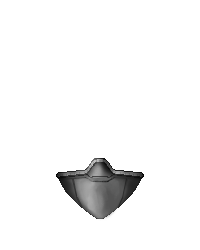
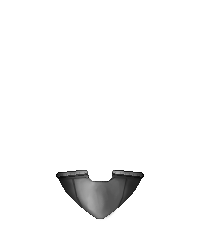
Muzzle nose options

Changed region(s): [[0.42, 0.616, 0.57, 0.728]]

diff --git a/BondageClub/Assets/Female3DCG/Female3DCG.js b/BondageClub/Assets/Female3DCG/Female3DCG.js
@@ -3560,8 +3560,10 @@ var AssetFemale3DCG = [
 				Effect: [ "BlockMouth"], Prerequisite: "GagFlat", Hide: ["Mouth", "ItemNoseNoseRing"], Extended: true,
 				Layer: [
 					{ Name: "Straps", HasType: false, AllowModuleTypes: ["h1"]},
+					{ Name: "Nose", HasType: false, AllowModuleTypes: ["n1"]},
 					{ Name: "Mask", HasType: false,},
-					{ Name: "Icon", HasType: true, AllowModuleTypes: ["s1", "s2"]},
+					{ Name: "IconLock", HasType: false, AllowModuleTypes: ["s1"]},
+					{ Name: "IconMute", CopyLayerColor: "IconLock", HasType: false, AllowModuleTypes: ["s2"]},
 				]
 			},
 			{
@@ -3825,8 +3827,10 @@ var AssetFemale3DCG = [
 				Effect: [ "BlockMouth"], Prerequisite: "GagFlat", Hide: ["Mouth", "ItemNoseNoseRing"], Block: ["ItemMouth"], Extended: true,
 				Layer: [
 					{ Name: "Straps", HasType: false, AllowModuleTypes: ["h1"]},
+					{ Name: "Nose", HasType: false, AllowModuleTypes: ["n1"]},
 					{ Name: "Mask", HasType: false,},
-					{ Name: "Icon", HasType: true, AllowModuleTypes: ["s1", "s2"]},
+					{ Name: "IconLock", HasType: false, AllowModuleTypes: ["s1"]},
+					{ Name: "IconMute", CopyLayerColor: "IconLock", HasType: false, AllowModuleTypes: ["s2"]},
 				]
 			},
 			{
@@ -4065,8 +4069,10 @@ var AssetFemale3DCG = [
 				Effect: [ "BlockMouth"], Prerequisite: "GagFlat", Hide: ["Mouth", "ItemNoseNoseRing"], Block: ["ItemMouth", "ItemMouth2"], Extended: true,
 				Layer: [
 					{ Name: "Straps", HasType: false, AllowModuleTypes: ["h1"]},
+					{ Name: "Nose", HasType: false, AllowModuleTypes: ["n1"]},
 					{ Name: "Mask", HasType: false,},
-					{ Name: "Icon", HasType: true, AllowModuleTypes: ["s1", "s2"]},
+					{ Name: "IconLock", HasType: false, AllowModuleTypes: ["s1"]},
+					{ Name: "IconMute", CopyLayerColor: "IconLock", HasType: false, AllowModuleTypes: ["s2"]},
 				]
 			},
 			{

diff --git a/BondageClub/Assets/Female3DCG/Female3DCGExtended.js b/BondageClub/Assets/Female3DCG/Female3DCGExtended.js
@@ -2878,6 +2878,17 @@ var AssetFemale3DCGExtended = {
 			Config: {
 				Modules: [
 					{
+						Name: "Nose", Key: "n",
+						Options: [
+							{}, // n0 - No nose
+							{ // n1 - OTN
+								Property: {
+									Difficulty: 1,
+								},
+							},
+						],
+					},
+					{
 						Name: "Harness", Key: "h",
 						Options: [
 							{}, // h0 - No straps
